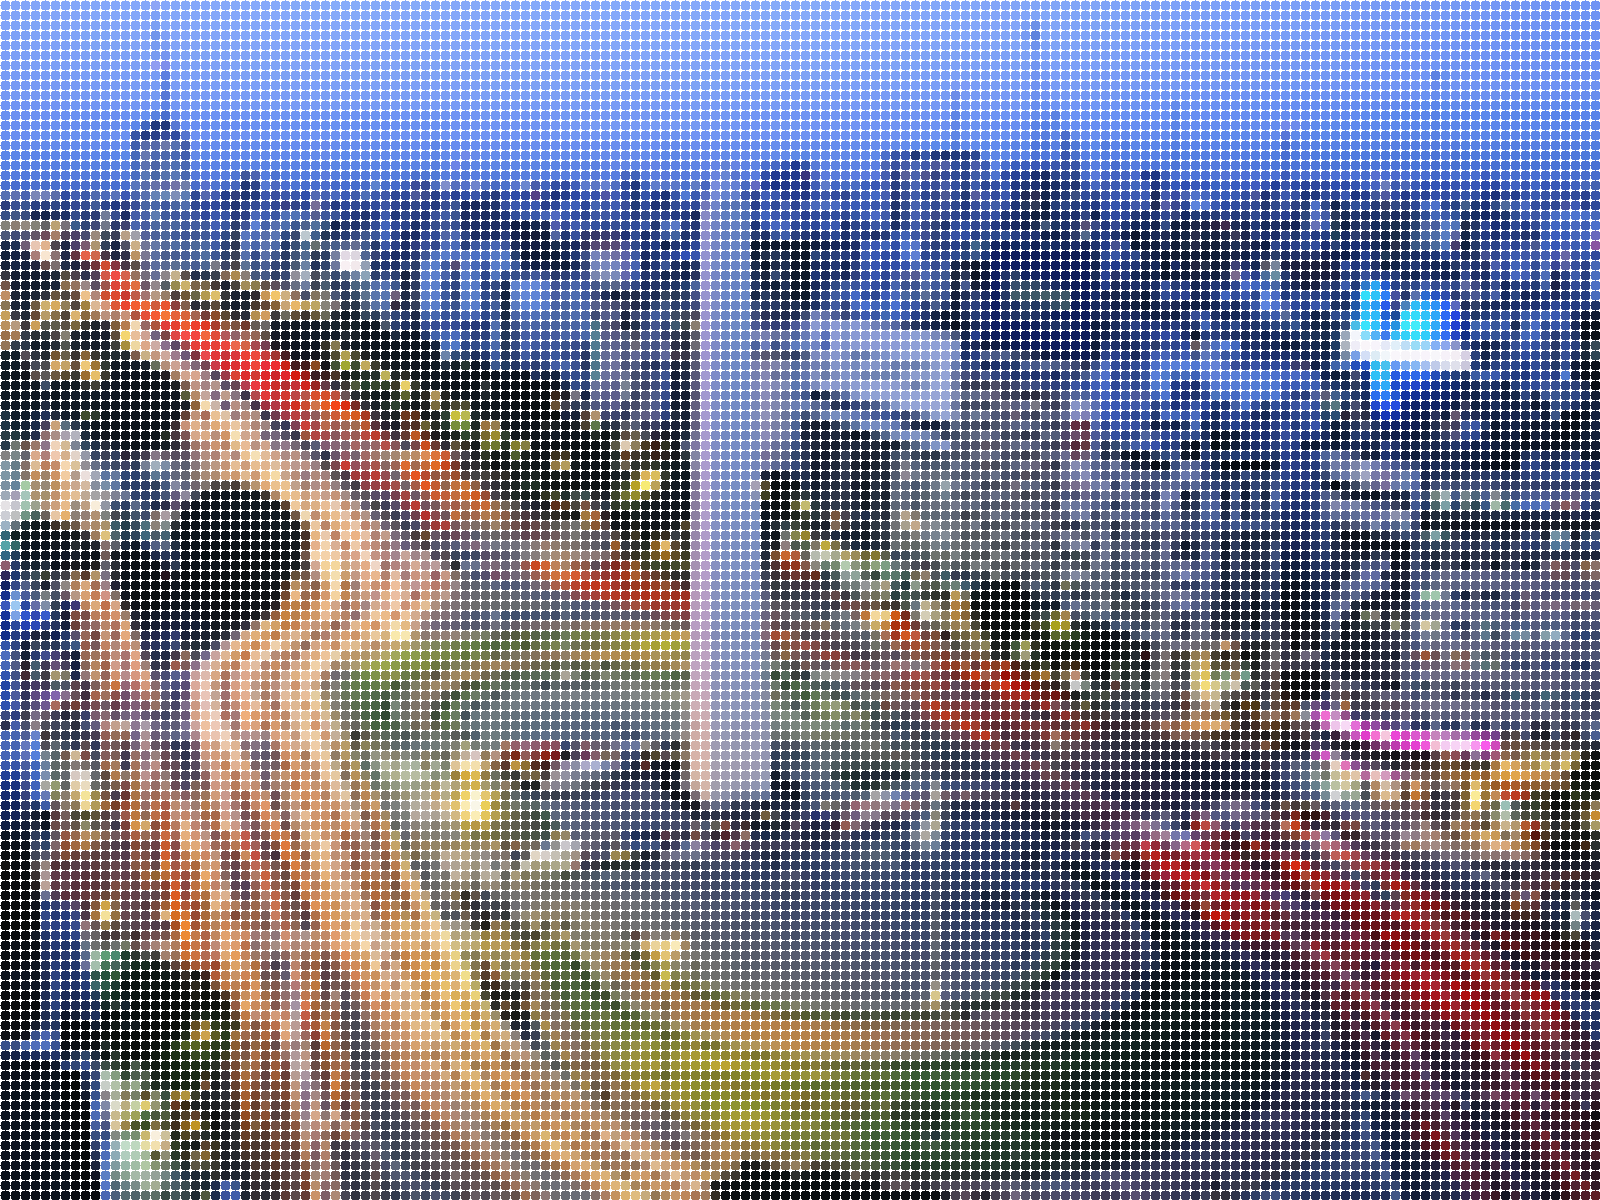
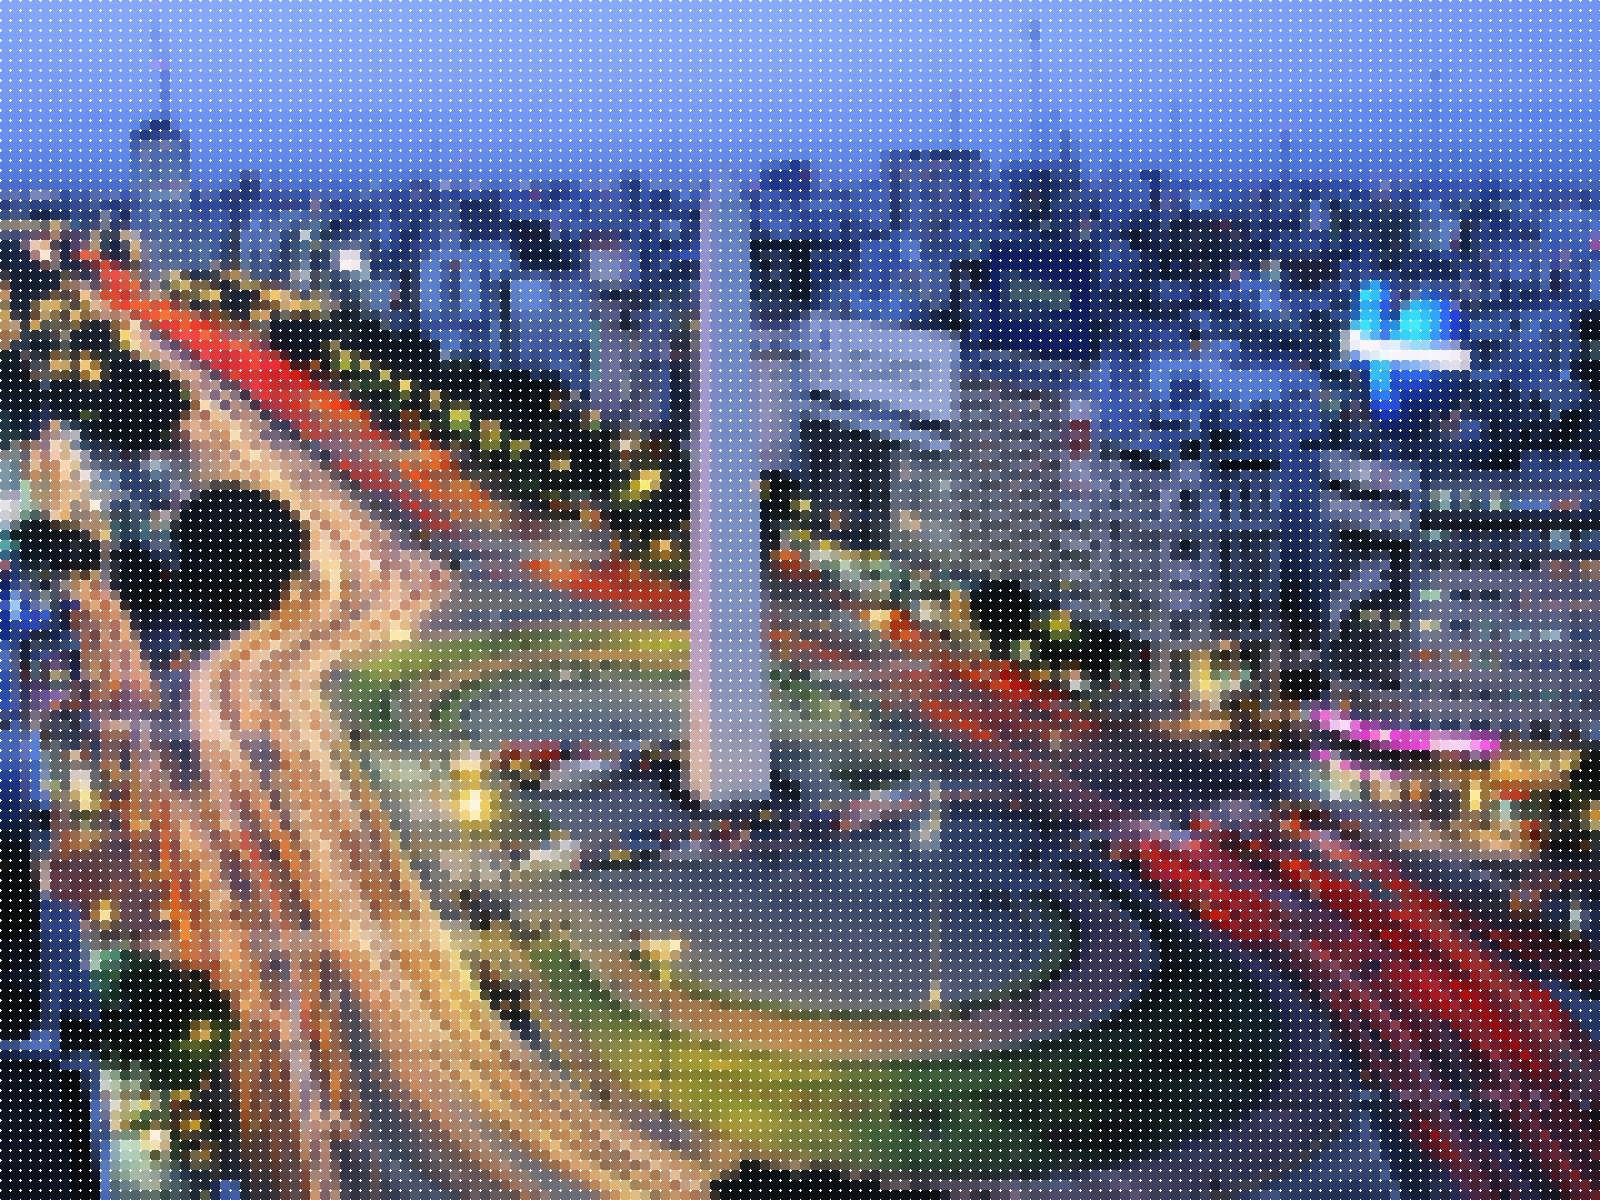
Added --rad

Changed region(s): [[0.0, 0.0, 1.0, 1.0]]

diff --git a/src/main.rs b/src/main.rs
@@ -4,6 +4,7 @@ use image::GenericImageView;
 
 fn main() {
     let mut sector_size = 5;
+    let mut radius = (sector_size as f64) / 2f64;
     let mut verbose = false;
 
     let mut input_file_name = String::from("input.png");
@@ -28,6 +29,13 @@ fn main() {
                     .parse::<u32>()
                     .expect("Couldn't parse input. It must be an u8");;
             }
+            "--rad" => {
+                radius = args_list
+                    .pop()
+                    .expect("No more arguments passed")
+                    .parse::<f64>()
+                    .expect("Couldn't parse input. It must be an f64");;
+            }
             "--verbose" => {
                 verbose = args_list
                     .pop()
@@ -44,11 +52,15 @@ fn main() {
     let img = image::open(&input_file_name).expect("Couldn't open file");
     let (width, height) = (img.width(), img.height());
 
-    println!("{} is {}x{}. Processing with {} as rad", &input_file_name, width, height, sector_size);
+    println!(
+        "{} is {}x{}. Processing with {}/{} as size/rad",
+        &input_file_name, width, height, sector_size, radius
+    );
 
     let mut map: Vec<[u32; 3]> = vec![];
     let mut act_prom: [u32; 3] = [0, 0, 0];
 
+    //#region Processing
     for y in (0..height).step_by(sector_size as usize) {
         if (y + sector_size) > height {
             break;
@@ -59,7 +71,7 @@ fn main() {
             }
 
             //println!("Working on ({}:{})", x, y);
-            
+
             for s_y in y..(y + sector_size) {
                 for s_x in x..(x + sector_size) {
                     for i in 0..3 {
@@ -74,36 +86,29 @@ fn main() {
             act_prom = [0, 0, 0];
         }
         if verbose {
-            println!("{} rows of {} rows",height,y);
+            println!("{} rows of {} rows", height, y);
         }
     }
     println!("Finished processing image. {} sectors", map.len());
-    
-    let img = image::RgbImage::from_fn(width, height, |x, y| {
-        let distance_calc = |point: [i32; 2], sector_center: [i32; 2]| {
-            let dx: u32 = (point[0] - sector_center[0]).abs() as u32;
-            let dy: u32 = (point[1] - sector_center[1]).abs() as u32;
-            let distance: f64 = ((dx.pow(2) + dy.pow(2)) as f64).sqrt();
-            distance
-        };
+    //#endregion
 
+    //#region Calculating pixels
+    let distance_calc = |point: [i32; 2], sector_center: [i32; 2]| {
+        let dx: u32 = (point[0] - sector_center[0]).abs() as u32;
+        let dy: u32 = (point[1] - sector_center[1]).abs() as u32;
+        let distance: f64 = ((dx.pow(2) + dy.pow(2)) as f64).sqrt();
+        distance
+    };
+
+    let img = image::RgbImage::from_fn(width, height, |x, y| {
         let sector_index = (x / sector_size) + (width / sector_size) * (y / sector_size);
         let sector_index = sector_index as usize;
         let sector_center: [i32; 2] = [
             (x - x % sector_size + sector_size / 2) as i32,
             (y - y % sector_size + sector_size / 2) as i32,
         ];
-        /* println!(
-            "({};{}) = {} as {:?}. Center is {:?}, and distance is {}",
-            x,
-            y,
-            sector_index,
-            map[sector_index],
-            sector_center,
-            distance_calc(sector_center, [x as i32, y as i32])
-        ); */
 
-        if distance_calc(sector_center, [x as i32, y as i32]) > (sector_size as f64) / 2f64 {
+        if distance_calc(sector_center, [x as i32, y as i32]) > radius {
             return image::Rgb([0xFF, 0xFF, 0xFF]);
         }
         image::Rgb([
@@ -112,6 +117,8 @@ fn main() {
             map[sector_index][2] as u8,
         ])
     });
+    //#endregion
 
+    println!("Saving image to {}", output_file_name);
     img.save(output_file_name).expect("Couldn't save file");
 }
